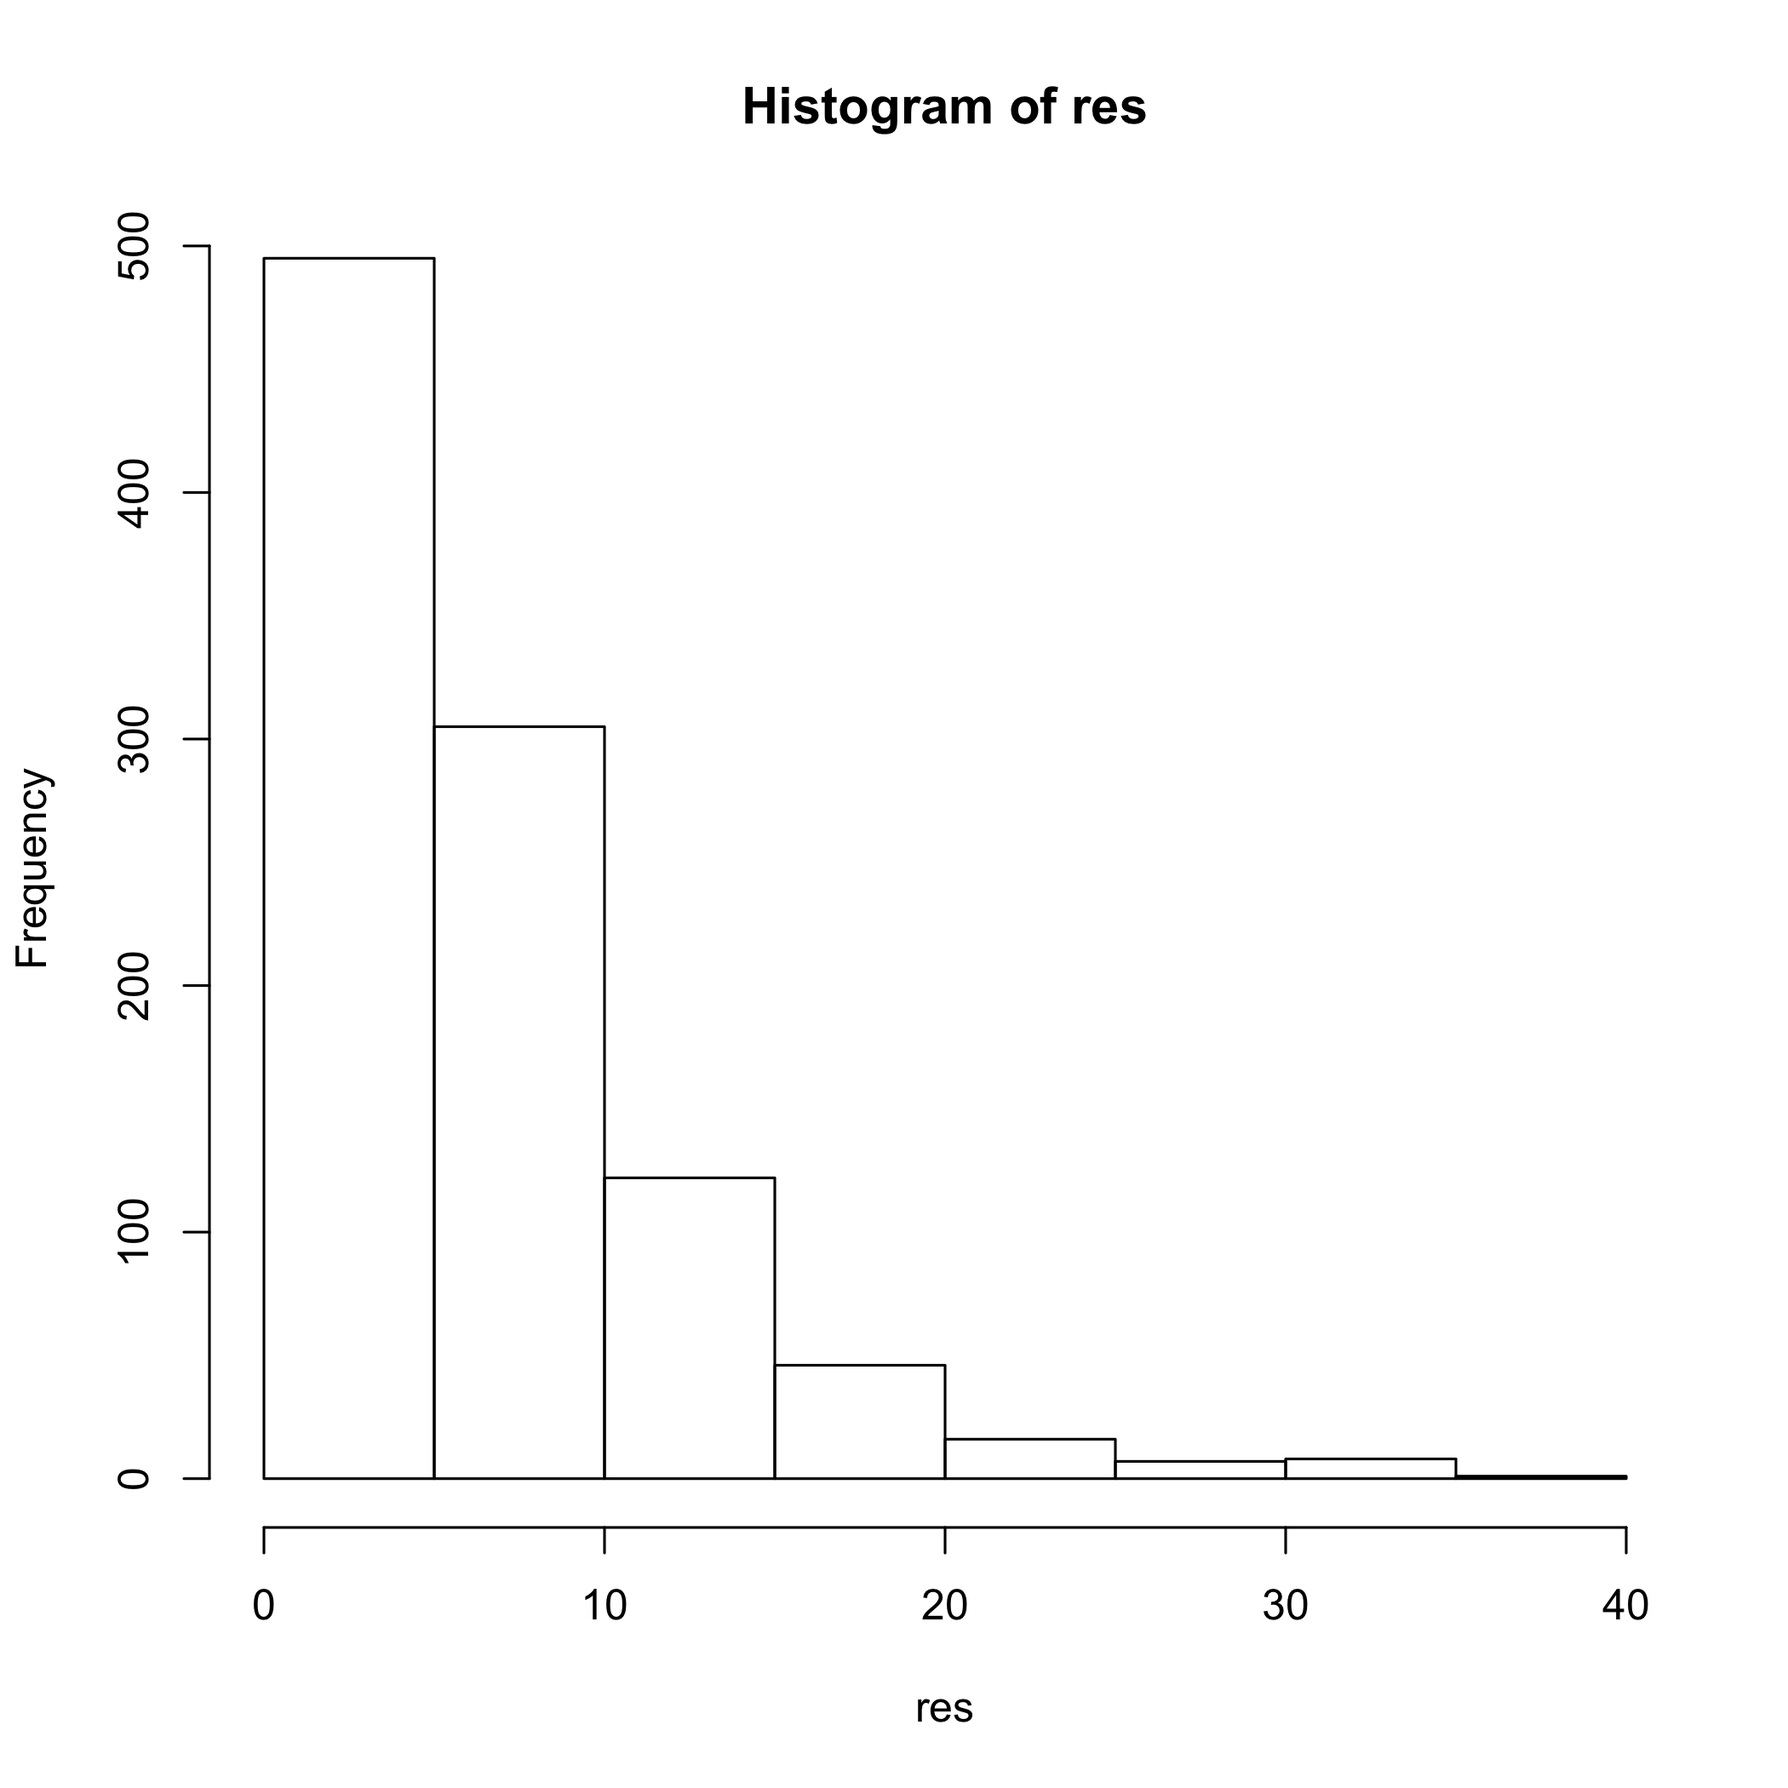
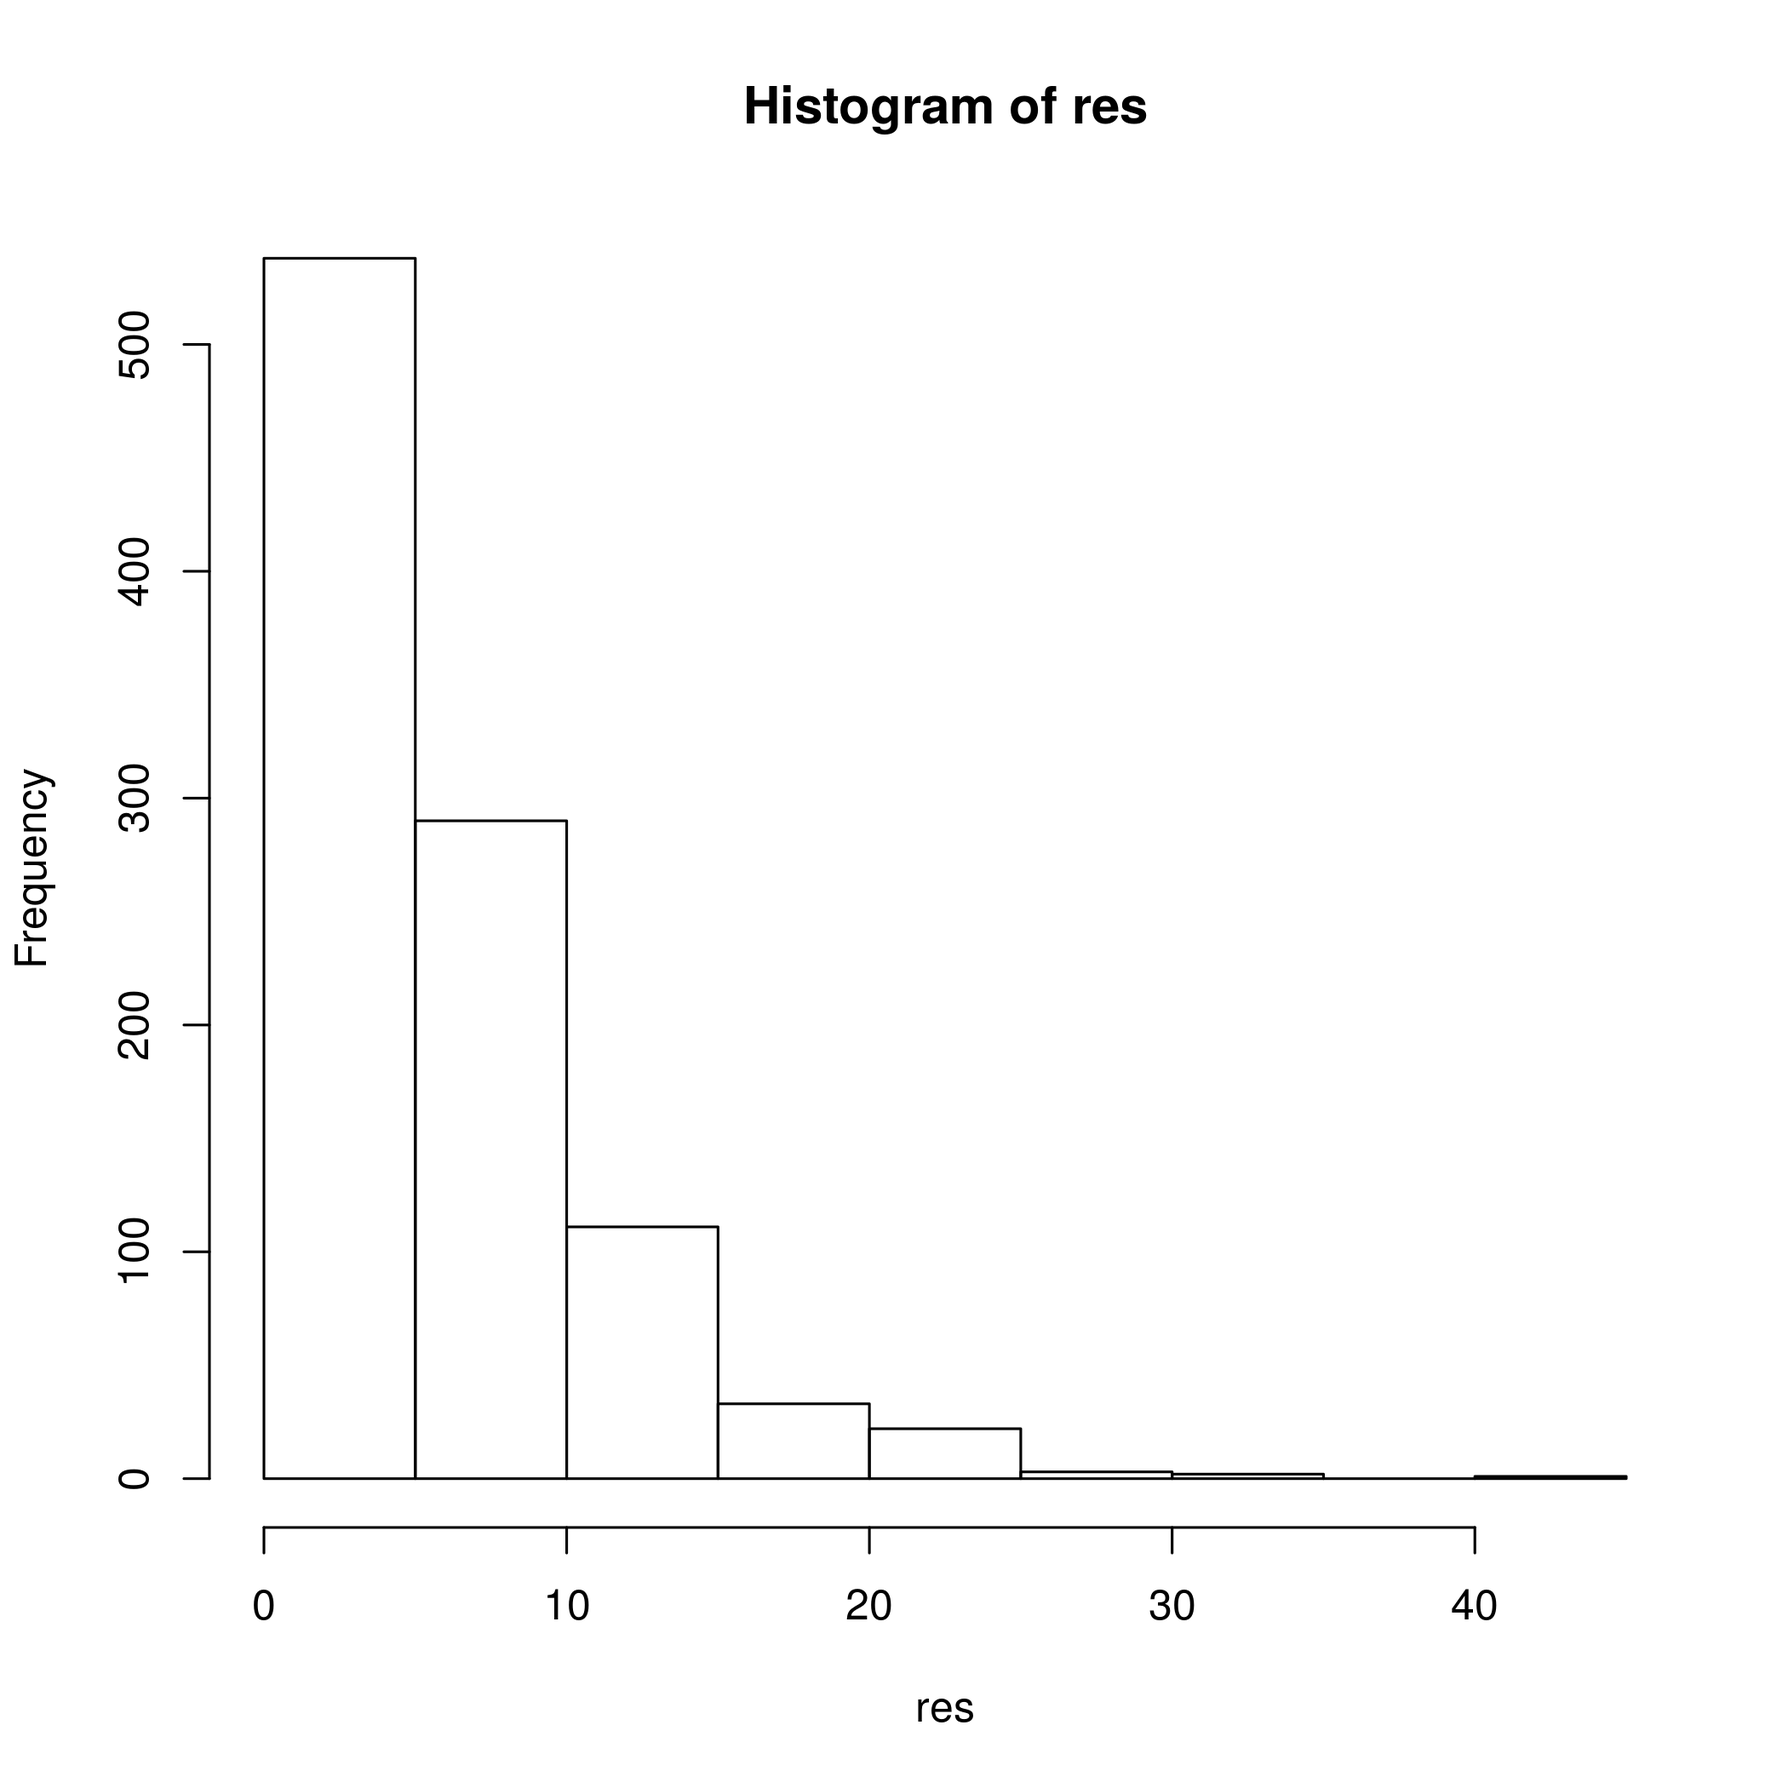
revisions cours 4

diff --git a/cours4/pres/index.html b/cours4/pres/index.html
@@ -147,7 +147,7 @@ lambda[1,1] &lt;- (donnees[2,1] - donnees[1,1]) / donnees[1,1]
   <article data-timings="">
     <p>Très rapidement, on réalise que c&#39;est assez fastidieux de refaire cet exercice à la main, mais c&#39;est faisable.</p>
 
-<p>Imaginez cependant que vous découvrez un jour qu&#39;un passionné des salamadres a déjà fait une étude similaire sur ce site, et par miracle vous obtenez des séries temporelles de 50 ans réparties sur 10 points d&#39;échantillonnage. Il faudra changer de technique....</p>
+<p>Imaginez cependant que vous découvrez un jour qu&#39;un passionné des salamandres a déjà fait une étude similaire sur ce site, et par miracle vous obtenez des séries temporelles de 50 ans réparties sur 10 points d&#39;échantillonnage. Il faudra changer de technique....</p>
 
   </article>
   <!-- Presenter Notes -->
@@ -176,7 +176,7 @@ n_annees &lt;- nrow(donnees)
 lambda &lt;- matrix(nr = n_annees-1, nc = sites)
 for(i in 2:n_annees) {
     for(j in 1:n_sites) {
-        lambda &lt;- (donnees[i,j] - donnees[i-1,j]) / donnees[i-1,j]
+        lambda[i-1,j] &lt;- (donnees[i,j] - donnees[i-1,j]) / donnees[i-1,j]
     }   
 }
 </code></pre>
@@ -456,7 +456,7 @@ for(etape in depart:fin) {
     <h1>Boucles et indexation</h1>
   </hgroup>
   <article data-timings="">
-    <p>Les boucles sont souvent utilisées pour accéder à des positions dans un objet de façon récursive. La variable de la boucle peut alors être utilisé directement comme index pour accéder à l&#39;objet. Par exemple :</p>
+    <p>Les boucles sont souvent utilisées pour accéder à des positions dans un objet de façon récursive. La variable de la boucle peut alors être utilisée directement comme index pour accéder à l&#39;objet. Par exemple :</p>
 
 <pre><code class="r">test = runif(5, 0,1)
 for(etape in 1:5) {
@@ -464,11 +464,11 @@ for(etape in 1:5) {
 }
 </code></pre>
 
-<pre><code>## [1] 0.9189536
-## [1] 0.9281913
-## [1] 0.207182
-## [1] 0.6214706
-## [1] 0.9113898
+<pre><code>## [1] 0.6443833
+## [1] 0.1475081
+## [1] 0.4194033
+## [1] 0.8542872
+## [1] 0.1922626
 </code></pre>
 
   </article>
@@ -488,11 +488,11 @@ for(etape in 1:5) {
 }
 </code></pre>
 
-<pre><code>## [1] 0.7762813
-## [1] 0.9548667
-## [1] 0.3514199
-## [1] 0.7627487
-## [1] 0.2979291
+<pre><code>## [1] 0.08651754
+## [1] 0.4383135
+## [1] 0.6458184
+## [1] 0.727037
+## [1] 0.9074013
 </code></pre>
 
   </article>
@@ -630,7 +630,11 @@ while(combinaison != &quot;pile-pile&quot;) {
 }
 </code></pre>
 
-<pre><code>## [1] &quot;pile-pile&quot;
+<pre><code>## [1] &quot;face-pile&quot;
+## [1] &quot;face-face&quot;
+## [1] &quot;face-pile&quot;
+## [1] &quot;face-face&quot;
+## [1] &quot;pile-pile&quot;
 </code></pre>
 
   </article>
@@ -668,7 +672,7 @@ for(i in 1:n_test) {
 mean(res)
 </code></pre>
 
-<pre><code>## [1] 7.139
+<pre><code>## [1] 6.595
 </code></pre>
 
   </article>
@@ -707,10 +711,10 @@ mean(res)
     <p>La croissance d&#39;une population sujette à la densité-dépendance, en temps discret, se calcul bien au moyen d&#39;une boucle. La densité au temps \(t+1\) se calcule ainsi :</p>
 
 <p>\[
-N_{t+1} = N_t + r \times N_t \times (1 - N/K)
+N_{t+1} = N_t + r \times N_t \times (1 - N_t/K)
 \]</p>
 
-<p>Henri Menier a importé environ 220 cerfs sur l&#39;île d&#39;Anticosti au début du 20ème siècle et on compte aujourd&#39;hui environ 200 000 bêtes, ce qui correspond à la capacité de support du milieu (\(K\)). Si on fixe le taux de croissance (\(r\)) à 0.3, combien de temps fut nécessaire à la population pour atteindre 50% de la capacité de support ?</p>
+<p>Henri Meunier a importé environ 220 cerfs sur l&#39;île d&#39;Anticosti au début du 20ème siècle et on compte aujourd&#39;hui environ 200 000 bêtes, ce qui correspond à la capacité de support du milieu (\(K\)). Si on fixe le taux de croissance (\(r\)) à 0.3, combien de temps fut nécessaire à la population pour atteindre 50% de la capacité de support ?</p>
 
   </article>
   <!-- Presenter Notes -->
@@ -790,7 +794,7 @@ for(i in 2:(n_steps+1)) {
   <article data-timings="">
     <p>Très souvent en programmation on a à prendre des décisions du type <strong>si la condition X est remplie, alors faire Y, sinon faire Z</strong>. Nous avons déjà vu certains exemples depuis le début du cours.</p>
 
-<p>La structure de base d&#39;une expression conditionelle est la suivante:</p>
+<p>La structure de base d&#39;une expression conditionnelle est la suivante:</p>
 
 <pre><code class="r">if(condition) {
     instruction(1)
@@ -932,16 +936,16 @@ cbind(X,res)
     </div>
     <div class='right' style='float:right;width:48%'>
      <pre><code>##       X                    res         
-##  [1,] &quot;0.357250817585737&quot;  &quot;plus grand&quot;
-##  [2,] &quot;0.651739744003862&quot;  &quot;plus grand&quot;
-##  [3,] &quot;0.208312676753849&quot;  &quot;plus petit&quot;
-##  [4,] &quot;0.127277176361531&quot;  &quot;plus petit&quot;
-##  [5,] &quot;0.0704060615971684&quot; &quot;plus petit&quot;
-##  [6,] &quot;0.299550296040252&quot;  &quot;plus petit&quot;
-##  [7,] &quot;0.547153719002381&quot;  &quot;plus grand&quot;
-##  [8,] &quot;0.0876875231042504&quot; &quot;plus petit&quot;
-##  [9,] &quot;0.281001262366772&quot;  &quot;plus petit&quot;
-## [10,] &quot;0.543835281161591&quot;  &quot;plus grand&quot;
+##  [1,] &quot;0.0516675903927535&quot; &quot;plus petit&quot;
+##  [2,] &quot;0.444330098805949&quot;  &quot;plus grand&quot;
+##  [3,] &quot;0.281230132794008&quot;  &quot;plus petit&quot;
+##  [4,] &quot;0.781961031490937&quot;  &quot;plus grand&quot;
+##  [5,] &quot;0.0396641648840159&quot; &quot;plus petit&quot;
+##  [6,] &quot;0.0265654777176678&quot; &quot;plus petit&quot;
+##  [7,] &quot;0.618367671500891&quot;  &quot;plus grand&quot;
+##  [8,] &quot;0.0446461925748736&quot; &quot;plus petit&quot;
+##  [9,] &quot;0.0822725580073893&quot; &quot;plus petit&quot;
+## [10,] &quot;0.0846023659687489&quot; &quot;plus petit&quot;
 </code></pre>
 
     </div>
@@ -996,16 +1000,16 @@ cbind(X,res2)
     </div>
     <div class='right' style='float:right;width:48%'>
      <pre><code>##       X                    res2 
-##  [1,] &quot;0.357250817585737&quot;  &quot;oui&quot;
-##  [2,] &quot;0.651739744003862&quot;  &quot;non&quot;
-##  [3,] &quot;0.208312676753849&quot;  &quot;oui&quot;
-##  [4,] &quot;0.127277176361531&quot;  &quot;non&quot;
-##  [5,] &quot;0.0704060615971684&quot; &quot;non&quot;
-##  [6,] &quot;0.299550296040252&quot;  &quot;oui&quot;
-##  [7,] &quot;0.547153719002381&quot;  &quot;oui&quot;
-##  [8,] &quot;0.0876875231042504&quot; &quot;non&quot;
-##  [9,] &quot;0.281001262366772&quot;  &quot;oui&quot;
-## [10,] &quot;0.543835281161591&quot;  &quot;oui&quot;
+##  [1,] &quot;0.0516675903927535&quot; &quot;non&quot;
+##  [2,] &quot;0.444330098805949&quot;  &quot;oui&quot;
+##  [3,] &quot;0.281230132794008&quot;  &quot;oui&quot;
+##  [4,] &quot;0.781961031490937&quot;  &quot;non&quot;
+##  [5,] &quot;0.0396641648840159&quot; &quot;non&quot;
+##  [6,] &quot;0.0265654777176678&quot; &quot;non&quot;
+##  [7,] &quot;0.618367671500891&quot;  &quot;non&quot;
+##  [8,] &quot;0.0446461925748736&quot; &quot;non&quot;
+##  [9,] &quot;0.0822725580073893&quot; &quot;non&quot;
+## [10,] &quot;0.0846023659687489&quot; &quot;non&quot;
 </code></pre>
 
     </div>
@@ -1028,16 +1032,16 @@ cbind(X,res2)
     </div>
     <div class='right' style='float:right;width:48%'>
      <pre><code>##       X                    res2 
-##  [1,] &quot;0.357250817585737&quot;  &quot;oui&quot;
-##  [2,] &quot;0.651739744003862&quot;  &quot;non&quot;
-##  [3,] &quot;0.208312676753849&quot;  &quot;oui&quot;
-##  [4,] &quot;0.127277176361531&quot;  &quot;non&quot;
-##  [5,] &quot;0.0704060615971684&quot; &quot;non&quot;
-##  [6,] &quot;0.299550296040252&quot;  &quot;oui&quot;
-##  [7,] &quot;0.547153719002381&quot;  &quot;oui&quot;
-##  [8,] &quot;0.0876875231042504&quot; &quot;non&quot;
-##  [9,] &quot;0.281001262366772&quot;  &quot;oui&quot;
-## [10,] &quot;0.543835281161591&quot;  &quot;oui&quot;
+##  [1,] &quot;0.0516675903927535&quot; &quot;non&quot;
+##  [2,] &quot;0.444330098805949&quot;  &quot;oui&quot;
+##  [3,] &quot;0.281230132794008&quot;  &quot;oui&quot;
+##  [4,] &quot;0.781961031490937&quot;  &quot;non&quot;
+##  [5,] &quot;0.0396641648840159&quot; &quot;non&quot;
+##  [6,] &quot;0.0265654777176678&quot; &quot;non&quot;
+##  [7,] &quot;0.618367671500891&quot;  &quot;non&quot;
+##  [8,] &quot;0.0446461925748736&quot; &quot;non&quot;
+##  [9,] &quot;0.0822725580073893&quot; &quot;non&quot;
+## [10,] &quot;0.0846023659687489&quot; &quot;non&quot;
 </code></pre>
 
     </div>

diff --git a/cours4/pres/index.md b/cours4/pres/index.md
@@ -88,7 +88,7 @@ lambda[2,1] <- (donnees[3,1] - donnees[2,1]) / donnees[2,1]
 
 Très rapidement, on réalise que c'est assez fastidieux de refaire cet exercice à la main, mais c'est faisable.
 
-Imaginez cependant que vous découvrez un jour qu'un passionné des salamadres a déjà fait une étude similaire sur ce site, et par miracle vous obtenez des séries temporelles de 50 ans réparties sur 10 points d'échantillonnage. Il faudra changer de technique....
+Imaginez cependant que vous découvrez un jour qu'un passionné des salamandres a déjà fait une étude similaire sur ce site, et par miracle vous obtenez des séries temporelles de 50 ans réparties sur 10 points d'échantillonnage. Il faudra changer de technique....
 
 ---
 # Mise en situation
@@ -107,7 +107,7 @@ n_annees <- nrow(donnees)
 lambda <- matrix(nr = n_annees-1, nc = sites)
 for(i in 2:n_annees) {
     for(j in 1:n_sites) {
-        lambda <- (donnees[i,j] - donnees[i-1,j]) / donnees[i-1,j]
+        lambda[i-1,j] <- (donnees[i,j] - donnees[i-1,j]) / donnees[i-1,j]
     }   
 }
 ```
@@ -355,7 +355,7 @@ for(F in -50:100) {
 ---
 # Boucles et indexation
 
-Les boucles sont souvent utilisées pour accéder à des positions dans un objet de façon récursive. La variable de la boucle peut alors être utilisé directement comme index pour accéder à l'objet. Par exemple :
+Les boucles sont souvent utilisées pour accéder à des positions dans un objet de façon récursive. La variable de la boucle peut alors être utilisée directement comme index pour accéder à l'objet. Par exemple :
 
 
 ```r
@@ -366,11 +366,11 @@ for(etape in 1:5) {
 ```
 
 ```
-## [1] 0.9189536
-## [1] 0.9281913
-## [1] 0.207182
-## [1] 0.6214706
-## [1] 0.9113898
+## [1] 0.6443833
+## [1] 0.1475081
+## [1] 0.4194033
+## [1] 0.8542872
+## [1] 0.1922626
 ```
 
 ---
@@ -387,11 +387,11 @@ for(etape in 1:5) {
 ```
 
 ```
-## [1] 0.7762813
-## [1] 0.9548667
-## [1] 0.3514199
-## [1] 0.7627487
-## [1] 0.2979291
+## [1] 0.08651754
+## [1] 0.4383135
+## [1] 0.6458184
+## [1] 0.727037
+## [1] 0.9074013
 ```
 
 ---
@@ -500,6 +500,10 @@ while(combinaison != "pile-pile") {
 ```
 
 ```
+## [1] "face-pile"
+## [1] "face-face"
+## [1] "face-pile"
+## [1] "face-face"
 ## [1] "pile-pile"
 ```
 
@@ -529,7 +533,7 @@ mean(res)
 ```
 
 ```
-## [1] 7.139
+## [1] 6.595
 ```
 
 ---
@@ -551,10 +555,10 @@ hist(res)
 La croissance d'une population sujette à la densité-dépendance, en temps discret, se calcul bien au moyen d'une boucle. La densité au temps $t+1$ se calcule ainsi :
 
 $$
-N_{t+1} = N_t + r \times N_t \times (1 - N/K)
+N_{t+1} = N_t + r \times N_t \times (1 - N_t/K)
 $$
 
-Henri Menier a importé environ 220 cerfs sur l'île d'Anticosti au début du 20ème siècle et on compte aujourd'hui environ 200 000 bêtes, ce qui correspond à la capacité de support du milieu ($K$). Si on fixe le taux de croissance ($r$) à 0.3, combien de temps fut nécessaire à la population pour atteindre 50% de la capacité de support ?
+Henri Meunier a importé environ 220 cerfs sur l'île d'Anticosti au début du 20ème siècle et on compte aujourd'hui environ 200 000 bêtes, ce qui correspond à la capacité de support du milieu ($K$). Si on fixe le taux de croissance ($r$) à 0.3, combien de temps fut nécessaire à la population pour atteindre 50% de la capacité de support ?
 
 ---
 # Solution 1
@@ -611,7 +615,7 @@ plot(c(1900:2015), N, type = "l", xlab = "Année", ylab = "Population")
 
 Très souvent en programmation on a à prendre des décisions du type **si la condition X est remplie, alors faire Y, sinon faire Z**. Nous avons déjà vu certains exemples depuis le début du cours.
 
-La structure de base d'une expression conditionelle est la suivante:
+La structure de base d'une expression conditionnelle est la suivante:
 
 
 ```r
@@ -725,16 +729,16 @@ cbind(X,res)
 
 ```
 ##       X                    res         
-##  [1,] "0.357250817585737"  "plus grand"
-##  [2,] "0.651739744003862"  "plus grand"
-##  [3,] "0.208312676753849"  "plus petit"
-##  [4,] "0.127277176361531"  "plus petit"
-##  [5,] "0.0704060615971684" "plus petit"
-##  [6,] "0.299550296040252"  "plus petit"
-##  [7,] "0.547153719002381"  "plus grand"
-##  [8,] "0.0876875231042504" "plus petit"
-##  [9,] "0.281001262366772"  "plus petit"
-## [10,] "0.543835281161591"  "plus grand"
+##  [1,] "0.0516675903927535" "plus petit"
+##  [2,] "0.444330098805949"  "plus grand"
+##  [3,] "0.281230132794008"  "plus petit"
+##  [4,] "0.781961031490937"  "plus grand"
+##  [5,] "0.0396641648840159" "plus petit"
+##  [6,] "0.0265654777176678" "plus petit"
+##  [7,] "0.618367671500891"  "plus grand"
+##  [8,] "0.0446461925748736" "plus petit"
+##  [9,] "0.0822725580073893" "plus petit"
+## [10,] "0.0846023659687489" "plus petit"
 ```
 
 ---
@@ -775,16 +779,16 @@ cbind(X,res2)
 
 ```
 ##       X                    res2 
-##  [1,] "0.357250817585737"  "oui"
-##  [2,] "0.651739744003862"  "non"
-##  [3,] "0.208312676753849"  "oui"
-##  [4,] "0.127277176361531"  "non"
-##  [5,] "0.0704060615971684" "non"
-##  [6,] "0.299550296040252"  "oui"
-##  [7,] "0.547153719002381"  "oui"
-##  [8,] "0.0876875231042504" "non"
-##  [9,] "0.281001262366772"  "oui"
-## [10,] "0.543835281161591"  "oui"
+##  [1,] "0.0516675903927535" "non"
+##  [2,] "0.444330098805949"  "oui"
+##  [3,] "0.281230132794008"  "oui"
+##  [4,] "0.781961031490937"  "non"
+##  [5,] "0.0396641648840159" "non"
+##  [6,] "0.0265654777176678" "non"
+##  [7,] "0.618367671500891"  "non"
+##  [8,] "0.0446461925748736" "non"
+##  [9,] "0.0822725580073893" "non"
+## [10,] "0.0846023659687489" "non"
 ```
 
 --- &twocol
@@ -808,16 +812,16 @@ cbind(X,res2)
 
 ```
 ##       X                    res2 
-##  [1,] "0.357250817585737"  "oui"
-##  [2,] "0.651739744003862"  "non"
-##  [3,] "0.208312676753849"  "oui"
-##  [4,] "0.127277176361531"  "non"
-##  [5,] "0.0704060615971684" "non"
-##  [6,] "0.299550296040252"  "oui"
-##  [7,] "0.547153719002381"  "oui"
-##  [8,] "0.0876875231042504" "non"
-##  [9,] "0.281001262366772"  "oui"
-## [10,] "0.543835281161591"  "oui"
+##  [1,] "0.0516675903927535" "non"
+##  [2,] "0.444330098805949"  "oui"
+##  [3,] "0.281230132794008"  "oui"
+##  [4,] "0.781961031490937"  "non"
+##  [5,] "0.0396641648840159" "non"
+##  [6,] "0.0265654777176678" "non"
+##  [7,] "0.618367671500891"  "non"
+##  [8,] "0.0446461925748736" "non"
+##  [9,] "0.0822725580073893" "non"
+## [10,] "0.0846023659687489" "non"
 ```
 
 --- .transition
